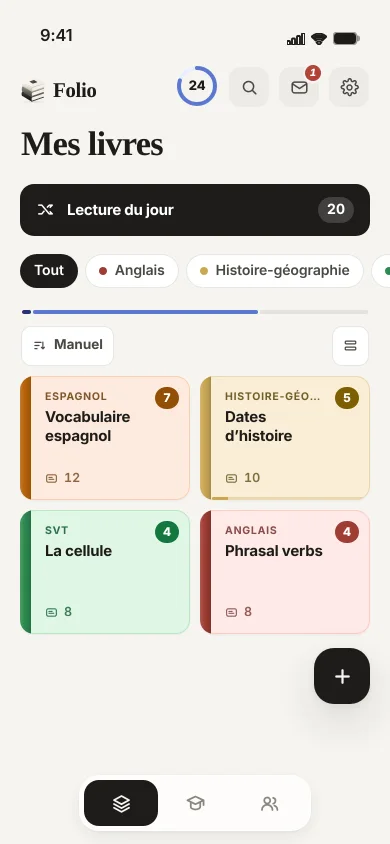
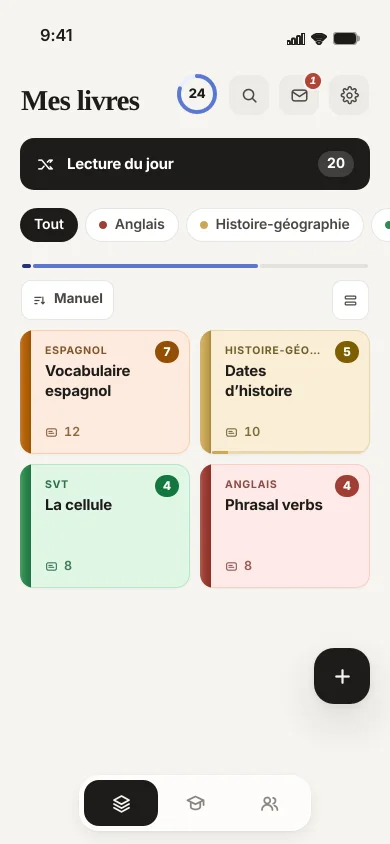
Page d'accueil : affiches refaites après la fusion de main, vérifications
La fusion de main a changé deux choses que la page montre : au
téléphone, les onglets de l'app n'ont plus la ligne du logo (l'affiche
du téléphone la montrait encore), et la médaille d'un classement est
redessinée d'un seul tracé. Les affiches, les captures du manifeste et
l'image de partage sont refaites dans la démo à jour (tools/affiches.js),
et le podium reprend la nouvelle médaille de l'app.

Deux défauts trouvés en vérifiant : l'audit « label in name » échouait
sur les boutons de note (leur aria-label ne contenait pas « 10 min »,
écrit dessous) : leur nom est maintenant leur texte ; et, au téléphone,
le texte des pages de l'appel final passait sous leur signet.

Preuve : npm run check (459 tests ; page 42,2/48 Ko), e2e 70 verts et
un intermittent arrivé avec main (pseudo.e2e.js, 1 échec sur 6
répétitions sur main seule aussi), Lighthouse sur ordinateur
100/100/100/100, au téléphone 100 en accessibilité, bonnes pratiques et
SEO (performance 90 à 97 dans ce conteneur, comme la page d'avant le
tour mesurée au même moment). docs/LANDING.md (tour 4 coché, décisions)
et PROGRESS.md à jour.

Claude-Session: https://claude.ai/code/session_017ZJcNg8QTgqSM5HhLZouon

diff --git a/index.html b/index.html
@@ -148,7 +148,6 @@
   <symbol id="i-curseur" viewBox="0 0 24 24"><path d="M4.04 4.69a.5.5 0 0 1 .65-.65l16 6.5a.5.5 0 0 1-.06.95l-6.13 1.58a2 2 0 0 0-1.43 1.43l-1.58 6.13a.5.5 0 0 1-.95.06z"/></symbol>
   <symbol id="i-menu" viewBox="0 0 24 24"><path d="M4 8h16M4 16h16"/></symbol>
   <symbol id="i-cible" viewBox="0 0 24 24"><circle cx="12" cy="12" r="9"/><circle cx="12" cy="12" r="5.2"/><circle cx="12" cy="12" r="1.5"/></symbol>
-  <symbol id="i-medaille" viewBox="0 0 24 24"><path d="M8.3 2.6L11 9.2M15.7 2.6L13 9.2" fill="none" stroke="#B9473C" stroke-width="2.4" stroke-linecap="round"/><circle cx="12" cy="14.6" r="6.6" fill="currentColor" stroke="rgba(0,0,0,.12)" stroke-width="1"/></symbol>
   <symbol id="visage-1" viewBox="12 10 76 76"><circle cx="50" cy="19" r="9" fill="#24201D"/><path d="M14 100C16 80 31 72 50 72S84 80 86 100Z" fill="#34343E"/><path d="M43 60V72Q50 77.5 57 72V60Z" fill="#AF7347"/><circle cx="32.5" cy="47" r="4.2" fill="#C98B5E"/><circle cx="67.5" cy="47" r="4.2" fill="#C98B5E"/><ellipse cx="50" cy="45" rx="18" ry="20" fill="#C98B5E"/><path d="M31 45C30 29 39 23 50 23S70 29 69 45C66 36 59 32 50 32S34 36 31 45Z" fill="#24201D"/><path d="M40.4 41Q43.5 39.4 46.6 41M53.4 41Q56.5 39.4 59.6 41" fill="none" stroke="#24201D" stroke-width="1.8" stroke-linecap="round" stroke-linejoin="round"/><circle cx="43.5" cy="47" r="2.3" fill="#2A2421"/><circle cx="56.5" cy="47" r="2.3" fill="#2A2421"/><path d="M48.8 51.6Q50 52.7 51.2 51.6" fill="none" stroke="#AF7347" stroke-width="1.6" stroke-linecap="round" stroke-linejoin="round"/><circle cx="38.6" cy="53.2" r="3" fill="rgba(232,110,110,.22)"/><circle cx="61.4" cy="53.2" r="3" fill="rgba(232,110,110,.22)"/><path d="M44 55Q50 63.5 56 55Z" fill="#8C3B33"/><path d="M45.4 55.5H54.6L54.1 57Q50 58.2 45.9 57Z" fill="#fff"/><circle cx="43.5" cy="47" r="5.6" fill="rgba(255,255,255,.18)" stroke="#2A2421" stroke-width="1.7"/><circle cx="56.5" cy="47" r="5.6" fill="rgba(255,255,255,.18)" stroke="#2A2421" stroke-width="1.7"/><path d="M49 46.6Q50 45.8 51 46.6" fill="none" stroke="#2A2421" stroke-width="1.6" stroke-linecap="round" stroke-linejoin="round"/></symbol><symbol id="visage-2" viewBox="12 10 76 76"><path d="M14 100C16 80 31 72 50 72S84 80 86 100Z" fill="#E2A53B"/><path d="M43 60V72Q50 77.5 57 72V60Z" fill="#CB8E63"/><circle cx="32.5" cy="47" r="4.2" fill="#E3A97F"/><circle cx="67.5" cy="47" r="4.2" fill="#E3A97F"/><ellipse cx="50" cy="45" rx="18" ry="20" fill="#E3A97F"/><path d="M30 45C27 28 38 20 51 20S73 28 70 45C69 39 66 35 62 33C55 36 44 36 36 34C33 37 31 40 30 45Z" fill="#24201D"/><path d="M40.4 41Q43.5 39.4 46.6 41M53.4 41Q56.5 39.4 59.6 41" fill="none" stroke="#24201D" stroke-width="1.8" stroke-linecap="round" stroke-linejoin="round"/><ellipse cx="43.5" cy="47" rx="3.4" ry="3.7" fill="#fff"/><circle cx="43.8" cy="47.4" r="2" fill="#2A2421"/><circle cx="44.5" cy="46.4" r="0.7" fill="#fff"/><ellipse cx="56.5" cy="47" rx="3.4" ry="3.7" fill="#fff"/><circle cx="56.8" cy="47.4" r="2" fill="#2A2421"/><circle cx="57.5" cy="46.4" r="0.7" fill="#fff"/><path d="M48.8 51.6Q50 52.7 51.2 51.6" fill="none" stroke="#CB8E63" stroke-width="1.6" stroke-linecap="round" stroke-linejoin="round"/><circle cx="38.6" cy="53.2" r="3" fill="rgba(232,110,110,.22)"/><circle cx="61.4" cy="53.2" r="3" fill="rgba(232,110,110,.22)"/><ellipse cx="50" cy="57.2" rx="2.4" ry="2.9" fill="#8C3B33"/><circle cx="32.5" cy="52.6" r="1.9" fill="#E3B342"/><circle cx="67.5" cy="52.6" r="1.9" fill="#E3B342"/></symbol><symbol id="visage-3" viewBox="12 10 76 76"><path d="M14 100C16 80 31 72 50 72S84 80 86 100Z" fill="#E86B5C"/><path d="M43 60V72Q50 77.5 57 72V60Z" fill="#855234"/><circle cx="32.5" cy="47" r="4.2" fill="#9E6743"/><circle cx="67.5" cy="47" r="4.2" fill="#9E6743"/><ellipse cx="50" cy="45" rx="18" ry="20" fill="#9E6743"/><path d="M30 46C27 27 40 19 52 20S73 30 70 46C68 38 64 33 58 31C50 38 40 40 32 40C31 42 30.5 44 30 46Z" fill="#7B5131"/><path d="M40.4 41Q43.5 39.4 46.6 41M53.4 41Q56.5 39.4 59.6 41" fill="none" stroke="#7B5131" stroke-width="1.8" stroke-linecap="round" stroke-linejoin="round"/><circle cx="43.5" cy="47" r="2.3" fill="#2A2421"/><circle cx="56.5" cy="47" r="2.3" fill="#2A2421"/><path d="M40.6 45.2L39.4 44M46.4 45.2L47.6 44M53.6 45.2L52.4 44M59.4 45.2L60.6 44" fill="none" stroke="#2A2421" stroke-width="1.3" stroke-linecap="round" stroke-linejoin="round"/><path d="M48.8 51.6Q50 52.7 51.2 51.6" fill="none" stroke="#855234" stroke-width="1.6" stroke-linecap="round" stroke-linejoin="round"/><circle cx="38.6" cy="53.2" r="3" fill="rgba(232,110,110,.22)"/><circle cx="61.4" cy="53.2" r="3" fill="rgba(232,110,110,.22)"/><path d="M45 56Q50 60.4 55 56" fill="none" stroke="#8C3B33" stroke-width="2" stroke-linecap="round" stroke-linejoin="round"/><circle cx="32.5" cy="52.6" r="1.9" fill="#E3B342"/><circle cx="67.5" cy="52.6" r="1.9" fill="#E3B342"/></symbol><symbol id="visage-4" viewBox="12 10 76 76"><circle cx="50" cy="19" r="9" fill="#7B5131"/><path d="M14 100C16 80 31 72 50 72S84 80 86 100Z" fill="#E86B5C"/><path d="M43 60V72Q50 77.5 57 72V60Z" fill="#EFC2A6"/><circle cx="32.5" cy="47" r="4.2" fill="#FCE0CC"/><circle cx="67.5" cy="47" r="4.2" fill="#FCE0CC"/><ellipse cx="50" cy="45" rx="18" ry="20" fill="#FCE0CC"/><path d="M31 45C30 29 39 23 50 23S70 29 69 45C66 36 59 32 50 32S34 36 31 45Z" fill="#7B5131"/><path d="M40.4 41Q43.5 39.4 46.6 41M53.4 41Q56.5 39.4 59.6 41" fill="none" stroke="#7B5131" stroke-width="1.8" stroke-linecap="round" stroke-linejoin="round"/><circle cx="43.5" cy="47" r="2.3" fill="#2A2421"/><circle cx="56.5" cy="47" r="2.3" fill="#2A2421"/><path d="M40.6 45.2L39.4 44M46.4 45.2L47.6 44M53.6 45.2L52.4 44M59.4 45.2L60.6 44" fill="none" stroke="#2A2421" stroke-width="1.3" stroke-linecap="round" stroke-linejoin="round"/><path d="M48.8 51.6Q50 52.7 51.2 51.6" fill="none" stroke="#EFC2A6" stroke-width="1.6" stroke-linecap="round" stroke-linejoin="round"/><circle cx="38.6" cy="53.2" r="3" fill="rgba(232,110,110,.22)"/><circle cx="61.4" cy="53.2" r="3" fill="rgba(232,110,110,.22)"/><path d="M45 57Q51 59.6 55.2 55" fill="none" stroke="#8C3B33" stroke-width="2" stroke-linecap="round" stroke-linejoin="round"/></symbol><symbol id="visage-5" viewBox="12 10 76 76"><path d="M29 44C27 24 39 17 50 17S73 24 71 44L73 80C65 84 35 84 27 80Z" fill="#4B2F20"/><path d="M14 100C16 80 31 72 50 72S84 80 86 100Z" fill="#4FA37A"/><path d="M43 60V72Q50 77.5 57 72V60Z" fill="#EFC2A6"/><circle cx="32.5" cy="47" r="4.2" fill="#FCE0CC"/><circle cx="67.5" cy="47" r="4.2" fill="#FCE0CC"/><ellipse cx="50" cy="45" rx="18" ry="20" fill="#FCE0CC"/><path d="M30 46C29 28 39 21 50 21S71 28 70 46C67 36 58 30 50 30S33 36 30 46Z" fill="#4B2F20"/><path d="M40.4 41Q43.5 39.4 46.6 41M53.4 41Q56.5 39.4 59.6 41" fill="none" stroke="#4B2F20" stroke-width="1.8" stroke-linecap="round" stroke-linejoin="round"/><ellipse cx="43.5" cy="47" rx="3.4" ry="3.7" fill="#fff"/><circle cx="43.8" cy="47.4" r="2" fill="#2A2421"/><circle cx="44.5" cy="46.4" r="0.7" fill="#fff"/><ellipse cx="56.5" cy="47" rx="3.4" ry="3.7" fill="#fff"/><circle cx="56.8" cy="47.4" r="2" fill="#2A2421"/><circle cx="57.5" cy="46.4" r="0.7" fill="#fff"/><path d="M48.8 51.6Q50 52.7 51.2 51.6" fill="none" stroke="#EFC2A6" stroke-width="1.6" stroke-linecap="round" stroke-linejoin="round"/><circle cx="38.6" cy="53.2" r="3" fill="rgba(232,110,110,.22)"/><circle cx="61.4" cy="53.2" r="3" fill="rgba(232,110,110,.22)"/><path d="M45 56Q50 60.4 55 56" fill="none" stroke="#8C3B33" stroke-width="2" stroke-linecap="round" stroke-linejoin="round"/><path d="M29 38C29 23 39 16.5 50 16.5S71 23 71 38Z" fill="#4FA37A"/><path d="M48 35.5C60 33.5 75 35 81 39.5C71 41.5 59 41 48 40Z" fill="#4FA37A"/><path d="M29.5 38H70.5" fill="none" stroke="rgba(0,0,0,.18)" stroke-width="1.4" stroke-linecap="round" stroke-linejoin="round"/></symbol><symbol id="visage-6" viewBox="12 10 76 76"><path d="M14 100C16 80 31 72 50 72S84 80 86 100Z" fill="#E86B5C"/><path d="M43 60V72Q50 77.5 57 72V60Z" fill="#CB8E63"/><circle cx="32.5" cy="47" r="4.2" fill="#E3A97F"/><circle cx="67.5" cy="47" r="4.2" fill="#E3A97F"/><ellipse cx="50" cy="45" rx="18" ry="20" fill="#E3A97F"/><circle cx="33" cy="37" r="7.5" fill="#E58FB3"/><circle cx="40" cy="28.5" r="8.5" fill="#E58FB3"/><circle cx="50" cy="25.5" r="9" fill="#E58FB3"/><circle cx="60" cy="28.5" r="8.5" fill="#E58FB3"/><circle cx="67" cy="37" r="7.5" fill="#E58FB3"/><circle cx="31" cy="45" r="5" fill="#E58FB3"/><circle cx="69" cy="45" r="5" fill="#E58FB3"/><path d="M40.4 41Q43.5 39.4 46.6 41M53.4 41Q56.5 39.4 59.6 41" fill="none" stroke="#E58FB3" stroke-width="1.8" stroke-linecap="round" stroke-linejoin="round"/><circle cx="43.5" cy="47" r="2.3" fill="#2A2421"/><path d="M53.5 48Q56.5 44.6 59.5 48" fill="none" stroke="#2A2421" stroke-width="2" stroke-linecap="round" stroke-linejoin="round"/><path d="M48.8 51.6Q50 52.7 51.2 51.6" fill="none" stroke="#CB8E63" stroke-width="1.6" stroke-linecap="round" stroke-linejoin="round"/><circle cx="38.6" cy="53.2" r="3" fill="rgba(232,110,110,.22)"/><circle cx="61.4" cy="53.2" r="3" fill="rgba(232,110,110,.22)"/><path d="M44 55Q50 63.5 56 55Z" fill="#8C3B33"/><path d="M45.4 55.5H54.6L54.1 57Q50 58.2 45.9 57Z" fill="#fff"/><circle cx="43.5" cy="47" r="5.6" fill="rgba(255,255,255,.18)" stroke="#2A2421" stroke-width="1.7"/><circle cx="56.5" cy="47" r="5.6" fill="rgba(255,255,255,.18)" stroke="#2A2421" stroke-width="1.7"/><path d="M49 46.6Q50 45.8 51 46.6" fill="none" stroke="#2A2421" stroke-width="1.6" stroke-linecap="round" stroke-linejoin="round"/></symbol>
   <symbol id="visage-eleve" viewBox="12 10 76 76"><path d="M65 29C80 33 83 52 77 67C75 57 71 47 63 41Z" fill="#7B5131"/><path d="M14 100C16 80 31 72 50 72S84 80 86 100Z" fill="#F0B3C4"/><path d="M43 60V72Q50 77.5 57 72V60Z" fill="#E2AB85"/><circle cx="32.5" cy="47" r="4.2" fill="#F5C9A6"/><circle cx="67.5" cy="47" r="4.2" fill="#F5C9A6"/><ellipse cx="50" cy="45" rx="18" ry="20" fill="#F5C9A6"/><path d="M30 45C27 28 38 20 51 20S73 28 70 45C69 39 66 35 62 33C55 36 44 36 36 34C33 37 31 40 30 45Z" fill="#7B5131"/><path d="M40.4 41Q43.5 39.4 46.6 41M53.4 41Q56.5 39.4 59.6 41" fill="none" stroke="#7B5131" stroke-width="1.8" stroke-linecap="round" stroke-linejoin="round"/><circle cx="43.5" cy="47" r="2.3" fill="#2A2421"/><circle cx="56.5" cy="47" r="2.3" fill="#2A2421"/><path d="M40.6 45.2L39.4 44M46.4 45.2L47.6 44M53.6 45.2L52.4 44M59.4 45.2L60.6 44" fill="none" stroke="#2A2421" stroke-width="1.3" stroke-linecap="round" stroke-linejoin="round"/><path d="M48.8 51.6Q50 52.7 51.2 51.6" fill="none" stroke="#E2AB85" stroke-width="1.6" stroke-linecap="round" stroke-linejoin="round"/><circle cx="38.6" cy="53.2" r="3" fill="rgba(232,110,110,.22)"/><circle cx="61.4" cy="53.2" r="3" fill="rgba(232,110,110,.22)"/><path d="M45 56Q50 60.4 55 56" fill="none" stroke="#8C3B33" stroke-width="2" stroke-linecap="round" stroke-linejoin="round"/></symbol><symbol id="visage-prof" viewBox="12 10 76 76"><path d="M14 100C16 80 31 72 50 72S84 80 86 100Z" fill="#34343E"/><path d="M43 60V72Q50 77.5 57 72V60Z" fill="#AF7347"/><circle cx="32.5" cy="47" r="4.2" fill="#C98B5E"/><circle cx="67.5" cy="47" r="4.2" fill="#C98B5E"/><ellipse cx="50" cy="45" rx="18" ry="20" fill="#C98B5E"/><path d="M30 45C27 28 38 20 51 20S73 28 70 45C69 39 66 35 62 33C55 36 44 36 36 34C33 37 31 40 30 45Z" fill="#24201D"/><path d="M40.4 41Q43.5 39.4 46.6 41M53.4 41Q56.5 39.4 59.6 41" fill="none" stroke="#24201D" stroke-width="1.8" stroke-linecap="round" stroke-linejoin="round"/><circle cx="43.5" cy="47" r="2.3" fill="#2A2421"/><circle cx="56.5" cy="47" r="2.3" fill="#2A2421"/><path d="M48.8 51.6Q50 52.7 51.2 51.6" fill="none" stroke="#AF7347" stroke-width="1.6" stroke-linecap="round" stroke-linejoin="round"/><circle cx="38.6" cy="53.2" r="3" fill="rgba(232,110,110,.22)"/><circle cx="61.4" cy="53.2" r="3" fill="rgba(232,110,110,.22)"/><path d="M45 56Q50 60.4 55 56" fill="none" stroke="#8C3B33" stroke-width="2" stroke-linecap="round" stroke-linejoin="round"/><rect x="37.6" y="42.6" width="11.8" height="9" rx="2.4" fill="rgba(255,255,255,.18)" stroke="#2A2421" stroke-width="1.7"/><rect x="50.6" y="42.6" width="11.8" height="9" rx="2.4" fill="rgba(255,255,255,.18)" stroke="#2A2421" stroke-width="1.7"/><path d="M49.4 46.4H50.6" fill="none" stroke="#2A2421" stroke-width="1.6" stroke-linecap="round" stroke-linejoin="round"/></symbol><symbol id="visage-ref" viewBox="12 10 76 76"><circle cx="50" cy="19" r="9" fill="#BD5A2C"/><path d="M14 100C16 80 31 72 50 72S84 80 86 100Z" fill="#9D80DB"/><path d="M43 60V72Q50 77.5 57 72V60Z" fill="#EFC2A6"/><circle cx="32.5" cy="47" r="4.2" fill="#FCE0CC"/><circle cx="67.5" cy="47" r="4.2" fill="#FCE0CC"/><ellipse cx="50" cy="45" rx="18" ry="20" fill="#FCE0CC"/><path d="M31 45C30 29 39 23 50 23S70 29 69 45C66 36 59 32 50 32S34 36 31 45Z" fill="#BD5A2C"/><path d="M40.4 41Q43.5 39.4 46.6 41M53.4 41Q56.5 39.4 59.6 41" fill="none" stroke="#BD5A2C" stroke-width="1.8" stroke-linecap="round" stroke-linejoin="round"/><path d="M40.5 48Q43.5 44.6 46.5 48" fill="none" stroke="#2A2421" stroke-width="2" stroke-linecap="round" stroke-linejoin="round"/><path d="M53.5 48Q56.5 44.6 59.5 48" fill="none" stroke="#2A2421" stroke-width="2" stroke-linecap="round" stroke-linejoin="round"/><path d="M48.8 51.6Q50 52.7 51.2 51.6" fill="none" stroke="#EFC2A6" stroke-width="1.6" stroke-linecap="round" stroke-linejoin="round"/><circle cx="38.6" cy="53.2" r="3" fill="rgba(232,110,110,.22)"/><circle cx="61.4" cy="53.2" r="3" fill="rgba(232,110,110,.22)"/><path d="M46 57H54" fill="none" stroke="#8C3B33" stroke-width="2" stroke-linecap="round" stroke-linejoin="round"/><circle cx="43.5" cy="47" r="5.6" fill="rgba(255,255,255,.18)" stroke="#2A2421" stroke-width="1.7"/><circle cx="56.5" cy="47" r="5.6" fill="rgba(255,255,255,.18)" stroke="#2A2421" stroke-width="1.7"/><path d="M49 46.6Q50 45.8 51 46.6" fill="none" stroke="#2A2421" stroke-width="1.6" stroke-linecap="round" stroke-linejoin="round"/></symbol>
 </svg>
@@ -246,7 +245,7 @@
 
         <!-- La pile qu'on note soi-même (site.js) : le moteur, au bout des doigts. -->
         <div class="essai" id="essai" role="group" aria-labelledby="essai-t">
-          <p class="cache" id="essai-t">Essaie le moteur : note la page</p>
+          <p class="cache" id="essai-t">Essaie le moteur : note la page, elle revient après le délai écrit sous chaque bouton</p>
           <div class="essai-pile" aria-hidden="true">
             <div class="carte" data-rang="0" data-teinte="yellow"><div class="carte-in"><div class="face"><small>Histoire</small><b>Prise de la Bastille</b></div><div class="face verso"><small>Histoire</small><b>14 juillet 1789</b></div></div></div>
             <div class="carte" data-rang="1" data-teinte="green"><div class="carte-in"><div class="face"><small>SVT</small><b>Mitochondrie</b></div><div class="face verso"><small>SVT</small><b>Centrale énergétique de la cellule</b></div></div></div>
@@ -254,10 +253,10 @@
             <div class="carte" data-rang="3" data-teinte="purple"><div class="carte-in"><div class="face"><small>Philosophie</small><b>Critique de la raison pure</b></div><div class="face verso"><small>Philosophie</small><b>Kant, 1781</b></div></div></div>
           </div>
           <div class="essai-notes">
-            <button type="button" class="n0" data-note="0" aria-label="Encore : la page revient dans dix minutes">Encore<i aria-hidden="true">10 min</i></button>
-            <button type="button" class="n1" data-note="1" aria-label="Difficile : la page revient dans deux jours">Difficile<i aria-hidden="true">2 j</i></button>
-            <button type="button" class="n2" data-note="2" aria-label="Correct : la page revient dans quatre jours">Correct<i aria-hidden="true">4 j</i></button>
-            <button type="button" class="n3" data-note="3" aria-label="Facile : la page revient dans neuf jours">Facile<i aria-hidden="true">9 j</i></button>
+            <button type="button" class="n0" data-note="0">Encore <i>10 min</i></button>
+            <button type="button" class="n1" data-note="1">Difficile <i>2 j</i></button>
+            <button type="button" class="n2" data-note="2">Correct <i>4 j</i></button>
+            <button type="button" class="n3" data-note="3">Facile <i>9 j</i></button>
           </div>
           <p class="essai-indice" aria-hidden="true"><svg class="essai-fleche" viewBox="0 0 36 32"><path d="M33 28C22 29 12 24 9 7"/><path d="M3.5 12.5 9 6.5l5.5 6"/></svg><span class="souris">Clique</span><span class="doigt">Touche</span>&nbsp;pour tester</p>
           <span class="essai-retour" aria-hidden="true"></span>
@@ -379,9 +378,9 @@
       <article class="tuile t-amis rv">
         <div class="tuile-dessin" aria-hidden="true">
           <ol class="podium">
-            <li style="--h:58%;--d:.1s"><span class="av" style="--j:#2F5D8A"><svg class="visage"><use href="#visage-1"/></svg></span><span class="med m2"><svg><use href="#i-medaille"/></svg><b>2</b></span></li>
-            <li style="--h:86%;--d:0s"><span class="av" style="--j:#B0475F"><svg class="visage"><use href="#visage-2"/></svg></span><span class="med m1"><svg><use href="#i-medaille"/></svg><b>1</b></span></li>
-            <li style="--h:40%;--d:.2s"><span class="av" style="--j:#3F7D55"><svg class="visage"><use href="#visage-3"/></svg></span><span class="med m3"><svg><use href="#i-medaille"/></svg><b>3</b></span></li>
+            <li style="--h:58%;--d:.1s"><span class="av" style="--j:#2F5D8A"><svg class="visage"><use href="#visage-1"/></svg></span><svg class="med m2" viewBox="0 0 24 28"><path class="med-r" d="M5.6 .5h4.6l3 9.5H8.6z"/><path class="med-r med-r2" d="M18.4 .5h-4.6l-3 9.5h4.6z"/><circle cx="12" cy="18.3" r="9.4"/><circle class="med-f" cx="12" cy="18.3" r="7.2"/><text x="12" y="18.6" text-anchor="middle" dominant-baseline="central">2</text></svg></li>
+            <li style="--h:86%;--d:0s"><span class="av" style="--j:#B0475F"><svg class="visage"><use href="#visage-2"/></svg></span><svg class="med m1" viewBox="0 0 24 28"><path class="med-r" d="M5.6 .5h4.6l3 9.5H8.6z"/><path class="med-r med-r2" d="M18.4 .5h-4.6l-3 9.5h4.6z"/><circle cx="12" cy="18.3" r="9.4"/><circle class="med-f" cx="12" cy="18.3" r="7.2"/><text x="12" y="18.6" text-anchor="middle" dominant-baseline="central">1</text></svg></li>
+            <li style="--h:40%;--d:.2s"><span class="av" style="--j:#3F7D55"><svg class="visage"><use href="#visage-3"/></svg></span><svg class="med m3" viewBox="0 0 24 28"><path class="med-r" d="M5.6 .5h4.6l3 9.5H8.6z"/><path class="med-r med-r2" d="M18.4 .5h-4.6l-3 9.5h4.6z"/><circle cx="12" cy="18.3" r="9.4"/><circle class="med-f" cx="12" cy="18.3" r="7.2"/><text x="12" y="18.6" text-anchor="middle" dominant-baseline="central">3</text></svg></li>
           </ol>
         </div>
         <h3>Clubs et amis</h3>

diff --git a/src/site/site.css b/src/site/site.css
@@ -452,10 +452,13 @@ button{font:inherit;color:inherit}
   transform-origin:bottom;animation:grandit 4.8s var(--e) infinite;animation-delay:var(--d)}
 .podium li:nth-child(1){background:var(--az2)}
 .podium li:nth-child(2){background:var(--az3)}
-.med{position:absolute;bottom:8px;width:36px;height:36px;color:var(--mc)}
-.med svg{width:100%;height:100%}
-/* le chiffre à l'encre : en blanc, il ne se lisait pas sur l'or (2,3:1) */
-.med b{position:absolute;left:0;right:0;top:15.5px;text-align:center;font:800 13px/1 var(--sans);color:var(--encre)}
+/* la médaille de l'app (ui/jeton.js, medailleHtml : un seul tracé, ses deux rubans) */
+.med{position:absolute;bottom:8px;width:31px;height:36px}
+.med circle{fill:var(--mc)}
+.med .med-f{fill:none;stroke:rgba(255,255,255,.5);stroke-width:1.1}
+.med .med-r{fill:color-mix(in srgb,var(--mc) 50%,var(--encre))}
+.med .med-r2{fill:color-mix(in srgb,var(--mc) 70%,var(--encre))}
+.med text{fill:#FFF;font:800 11px var(--sans)}
 .med.m1{--mc:#D8A42C}.med.m2{--mc:#A3ACB6}.med.m3{--mc:#B97A47}
 .av{position:absolute;top:-24px;width:48px;height:48px;border-radius:50%;background:var(--j);overflow:hidden;box-shadow:0 0 0 3px #FFF,0 8px 18px -8px rgba(29,28,25,.4)}
 @keyframes grandit{0%{transform:scaleY(.15)}22%,88%{transform:scaleY(1)}100%{transform:scaleY(.15)}}
@@ -820,7 +823,7 @@ button{font:inherit;color:inherit}
   .questions summary{padding-right:44px}
   .questions details p{padding-right:4px}
   .fin{padding-top:150px}
-  .fin-fiches span{font-size:13px;padding:9px 12px}
+  .fin-fiches span{--sw:9px;--sr:9px;font-size:13px;padding:9px 25px 9px 12px}
   .fin-fiches span:nth-child(1){left:5%;top:5%}
   .fin-fiches span:nth-child(2){left:auto;right:6%;top:9%}
   .fin-fiches span:nth-child(n+3){display:none}

diff --git a/docs/LANDING.md b/docs/LANDING.md
@@ -61,6 +61,9 @@ présente l'app en **B2C** (élèves, étudiants) et en **B2B** (établissements
 | « Le meilleur moteur de révision au monde » | écrit tel quel (demandé) ; le graphique repose sur la courbe d'oubli de FSRS et une révision à 90 %, comme le moteur de l'app | l'allégation s'appuie sur FSRS, en tête des comparatifs publics d'algorithmes de répétition espacée ; à garder défendable si on la conteste |
 | Le logo dans l'app (tour 3) | le logo vectoriel du site partout : barre latérale, barre du haut (au téléphone le logo seul), écran d'ouverture ; les onglets du téléphone gardent leur titre en haut, sans logo (demandé le 2026-10-27) ; icônes installées refaites depuis `public/site/icone.svg` | l'app installée et le site ont enfin la même marque |
 | Les titres de l'app (tour 3) | la serif du site pour les titres de page (`.hero`, `.bar h1`, le titre d'un livre), le reste en sans-serif ; un signet de la couleur de la matière sur la fiche lue | une seule voix du site à l'app ; l'espace prof était seul en serif |
+| Le vocabulaire (tour 4) | « un livre de flashcards », des **pages** avec la question au **recto** et la réponse au **verso** ; jamais « fiche » (`test/site.test.js` le refuse) | une fiche de révision est un résumé écrit : le mot trompait ; « flashcards » dit ce que c'est, le livre reste la langue de l'app (et un *folio* est une feuille) |
+| Folio Campus (tour 4) | une marque (le logo sur son carré de papier, une toque en écusson, « Folio *Campus* ») et l'étiquette « Pour les établissements scolaires » ; « Dix minutes pour ouvrir Folio à tous vos élèves et professeurs » | le bloc ne disait pas qu'il s'adressait à un établissement, ni que les dix minutes étaient celles du déploiement |
+| Appels à l'action (tour 4) | « Commencer gratuitement » (héros, après les tuiles, appel final), « Équiper mon établissement » en fin de Campus, l'inscription toujours dans l'en-tête du téléphone ; dans la démo, le geste d'après selon le rôle ; rien de faux (ni compte à rebours, ni « le plus choisi », ni avis inventés) | pousser à l'achat et à la démo sans site toxique |
 | Les couleurs de l'app (2026-10-27, hors tour) | une couleur, un travail (`src/couleurs.js`) : l'**azur** de la page d'accueil dit tout ce qui se compte (journal, profil, classement, espace prof), les états jugent, un **nuancier de 14 reliures** relie une matière ; un livre a un dos plein et une couverture teintée, la fiche lue le papier de son livre, le nom de sa matière et un grand signet ; une classe a un carré, un club un écusson | « des couleurs dans tous les sens », des livres « trop blancs », un signet « pas assez reconnaissable » : les liserés de gauche du tour 3 sont devenus des dos de reliure. Les affiches du site sont à rephotographier (`node tools/affiches.js`) |
 
 ## Architecture de la page (fichiers)
@@ -288,7 +291,7 @@ s'écrit plus nulle part sur la page.
 - [x] T4.5 Le « + » de Folio+ dans le dégradé de « tout. » (titre des tarifs, offre, tableau). **Fait** : `.plus`, en biais et en sans-serif épaisse (sur le trait fin du « + » de la serif, le dégradé ne montrait que son violet) ; la version claire sur l'offre sombre.
 - [x] T4.6 Les appels à l'action : un seul geste principal par écran, honnête (« Commencer gratuitement », « Demander une démo »), rien de faux (ni compte à rebours, ni « le plus choisi »), le téléphone garde toujours un bouton d'inscription en vue. **Fait** : « Commencer gratuitement » dans le héros, après les six tuiles (`.relance`, avec « Voir Folio+ ») et dans l'appel final (où « Essayer sans compte » devient le second bouton, « J'ai un code » passe en lien) ; au téléphone, l'en-tête collant garde « Créer un compte » et « Se connecter » passe dans le menu (sous 360 px, le logo seul) ; « Équiper mon établissement » en fin de bloc Campus (T4.4).
 - [x] T4.7 La démo donne envie de payer : son bandeau propose le geste suivant selon le rôle (créer un compte, demander une démo pour son établissement), une fonction grisée dit ce qu'elle ferait et comment l'avoir ; dans le budget du morceau de la démo. **Fait** : le bandeau porte « Créer mon compte » (élève) ou « Essayer dans mon établissement » (professeur, référent, vers `/demande-demo`), dans le dégradé de la marque, la seule couleur du bandeau ; au téléphone, libellé court, « Quitter » en icône, « Prof » dans le choix du rôle, « Recommencer » caché sous 380 px. Toucher Cours, Photo ou Fichier ouvre une fenêtre (« L’IA écrit le livre pour toi », « Ton cahier en photo, et c’est un livre », « Ton PDF devient un livre ») : ce que ça ferait, l'offre qui l'ouvre (3 cours par mois gratuits, 50 avec Folio+ ; photo et PDF avec Folio+, dès 2,50 € par mois), « Créer mon compte », « Voir Folio+ », « Continuer la démo ». Un « + » dessiné sur Photo et Fichier. Partir par ces liens efface la démo comme « Quitter ». Morceau de la démo : JS 26,7/30 Ko, CSS 1,6/3 Ko.
-- [ ] T4.8 Vérifs (check, e2e, Lighthouse, captures 390 et 1440 px), docs, `main` fusionnée, push branche + `main`.
+- [x] T4.8 Vérifs (check, e2e, Lighthouse, captures 390 et 1440 px), docs, `main` fusionnée, push branche + `main`. **Fait** : `main` fusionnée (les pseudos ; au téléphone les onglets sans la ligne du logo, d'où **les affiches refaites**, `node tools/affiches.js` ; la médaille de l'app redessinée, reprise sur le podium) ; `npm run check` vert (459 tests ; page 42,2/48 Ko ; démo JS 27,4/30, CSS 1,7/3) ; e2e 70 verts + 1 intermittent, `e2e/pseudo.e2e.js` (arrivé avec `main` : 1 échec sur 6 répétitions sur la branche comme sur `main` seule, sans rapport avec ce tour) ; Lighthouse sur ordinateur 100 / 100 / 100 / 100, au téléphone accessibilité, bonnes pratiques et SEO 100, performance 90 à 97 dans ce conteneur (la page d'avant le tour mesurée au même moment : 93 à 98 ; le temps de blocage varie d'un passage à l'autre avec la charge de la machine) ; les boutons de note ont pour nom leur texte (« Encore 10 min » : l'audit « label in name » échouait avec l'ancien `aria-label`) ; captures à 320, 390 et 1440 px relues (les pages de l'appel final, au téléphone, gardent la place de leur signet).
 
 ## Ce qui reste à décider (l'utilisateur)
 

diff --git a/PROGRESS.md b/PROGRESS.md
@@ -19,27 +19,20 @@
 CURSEUR   M08.T3 (hors ligne complet) — M05.T1/T4/T5/T6 en attente de toi
 PHASE     P0 — lancement B2C
 FAIT      46 / 148
-DERNIER   2026-10-27 · Les pseudos ont des règles (20261027090000) : tout compte en a un,
-          donné d'office ; 3 à 20 caractères, minuscules, chiffres, point, tiret
-          bas ; ni mot réservé ni grossier ; unique au point et au tiret bas près ;
-          deux changements par semaine ; un pseudo quitté reste 30 jours à son
-          titulaire. Il se change de partout (Réglages, « Mon jeton », l'accueil),
-          élève de classe compris — on ne pouvait plus le changer nulle part ; son
-          « Prénom NOM » reste en classe. Au téléphone, les titres des onglets
-          reviennent en haut ; médailles et icône des défis redessinées.
-          Preuves : pseudos.sql 27/27 (et identite_eleve, defis_direct,
-          etablissement, licence, jetons, profil, classe_eleve verts),
-          test/pseudo.test.js 18/18, e2e/pseudo 2/2, e2e complets.
-Avant :   2026-10-27 · Les couleurs de l'app (src/couleurs.js, pur et testé) : une
-          couleur, un travail — l'azur compte (journal, profil, classement,
-          bilan, objectif, espace prof), les états jugent, un nuancier de 14
-          reliures relie une matière (deux teintes à 10 au moins d'écart
-          OKLab, contre 2,8 avant), l'encre habille. Un livre a un dos plein
-          et une couverture teintée (étagère, liste, tête de sa page), la
-          fiche lue le papier de son livre, sa matière en tête et un grand
-          signet ; une classe un carré, un club un écusson. Les réussites ne
-          virent plus au vert ou au rouge selon un seuil.
-          Preuves : npm run check, e2e, captures avant/après des trois rôles.
+DERNIER   2026-10-27 · Page d'accueil, tour 4 (docs/LANDING.md) : la page suit la nouvelle
+          charte (pages teintées à signet, matières en petits livres, azur pour
+          ce qui se compte, médailles de l'app), parle de « livre de flashcards »
+          et de pages recto verso au lieu de « fiches » (refusé par test),
+          Folio Campus a sa marque et dit qu'il s'adresse aux établissements,
+          le « + » de Folio+ en couleur, « Commencer gratuitement » et l'en-tête
+          du téléphone qui garde l'inscription ; la démo propose le geste
+          d'après (créer son compte, l'essayer dans son établissement) et dit
+          comment avoir ce qu'elle grise. Affiches et image de partage refaites.
+          Preuves : npm run check (459 tests), e2e 70 + 1 intermittent connu
+          (pseudo.e2e.js, sur main aussi), Lighthouse 100×4 sur ordinateur.
+Avant :   2026-10-27 · Les pseudos ont des règles (20261027090000) : tout compte en a un,
+          donné d'office, unique, deux changements par semaine, changeable de
+          partout ; au téléphone, les titres des onglets reviennent en haut.
 ```
 
 Légende : `[ ]` à faire · `[~]` en cours · `[x]` fait et prouvé.
